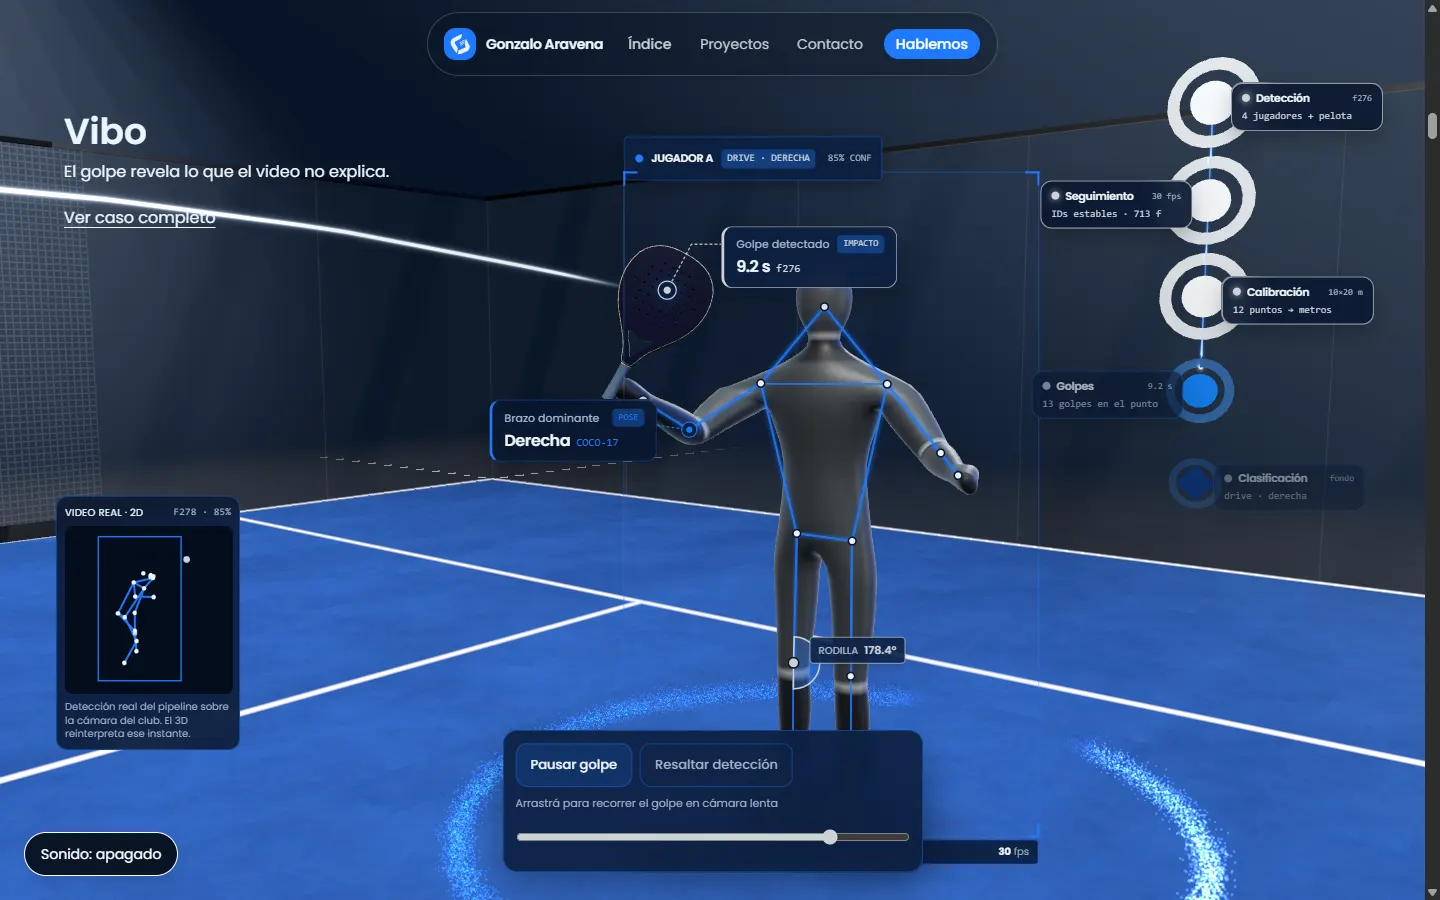
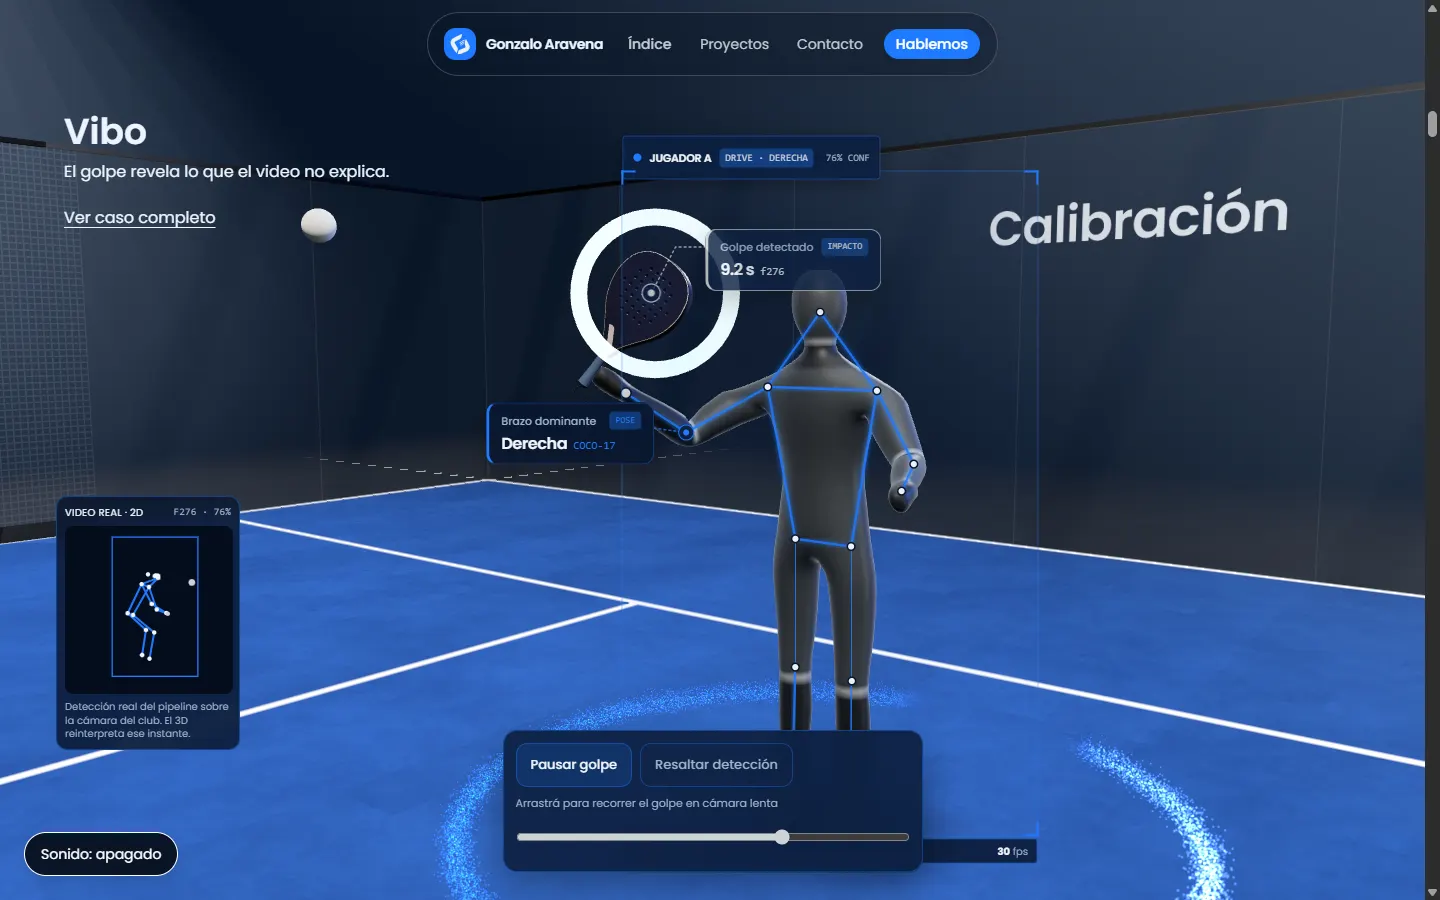
T-A20: pipeline como rótulo de etapa en el cristal del fondo y sin tarjeta de rodilla
ViboPipeline reemplaza AgentGraph en la escena: solo el título de la etapa en curso, plano en mundo sobre la pared del fondo, una etapa por vez. Se quita el angleGauge de rodilla del HUD. Evidencias de razonamiento recapturadas.

diff --git a/src/scenes/vibo/Scene.tsx b/src/scenes/vibo/Scene.tsx
@@ -36,15 +36,12 @@ import { experienceStore } from "@/experience/store"
 import type { SceneProps } from "@/experience/types"
 import { emitInteract } from "@/guide/signals"
 import {
-  AgentGraph,
   HudOverlay,
   TelemetryDeck,
   ThreadLine,
   beatEnvelope,
   interpolateCameraState,
   useStudioEnvironment,
-  type AgentEdgeDef,
-  type AgentNodeDef,
   type HudBoundingBox3D,
   type HudMarkerItem,
   type HudPoseSkeleton3D,
@@ -54,6 +51,7 @@ import { Court } from "./Court"
 import { PLATINUM_THEME, VIBO_COLORS, VIBO_THEME } from "./theme"
 import { COVERAGE, HEAT, HEAT_GRID, INTENSITY, INTENSITY_PEAK, PLAYER, SHOT } from "./data"
 import { createPanelNodes, paintInset } from "./panel"
+import { ViboPipeline, type PipelineStep } from "./Pipeline"
 import { ViboPlayer } from "./Player"
 import { createContactProbe, createPlayerJoints, createRim, type JointId } from "./rig"
 import { BodyLayer, ViboPanel } from "./ViboPanel"
@@ -107,19 +105,19 @@ function heatCentroid(grid: readonly number[]): Vec3Tuple {
   return courtToWorld(sx / sum, sz / sum, 0.1)
 }
 
-const PIPELINE: AgentNodeDef[] = [
-  { id: "deteccion", label: "Detección", decision: "4 jugadores + pelota", metric: `f${SHOT.keyFrame}` },
-  { id: "seguimiento", label: "Seguimiento", decision: "IDs estables · 713 f", metric: "30 fps" },
-  { id: "calibracion", label: "Calibración", decision: "12 puntos → metros", metric: "10×20 m" },
-  { id: "golpes", label: "Golpes", decision: `${PLAYER.totalShots} golpes en el punto`, metric: `${SHOT.tSec} s` },
-  { id: "clasificacion", label: "Clasificación", decision: "drive · derecha", metric: "fondo" },
-].map((node, i) => ({
-  ...node,
-  // Columna vertical sobre el cristal del fondo: se lee igual en toda la órbita de cámara.
-  desktop: [-2.3, 3.0 - i * 0.6, COURT.length / 2 - 0.25] as Vec3Tuple,
-  mobile: [-0.2, 3.0 - i * 0.43, COURT.length / 2 - 0.25] as Vec3Tuple,
-  triggerAt: 0.28 + i * 0.05,
-}))
+const PIPELINE = [
+  { id: "deteccion", label: "Detección" },
+  { id: "seguimiento", label: "Seguimiento" },
+  { id: "calibracion", label: "Calibración" },
+  { id: "golpes", label: "Golpes" },
+  { id: "clasificacion", label: "Clasificación" },
+]
+
+/** Rótulo de etapa sobre el cristal del fondo, detrás y a un lado del jugador. */
+const PIPELINE_LABEL = {
+  desktop: { position: [-1.75, 2.3, COURT.length / 2 - 0.03] as Vec3Tuple, width: 3.4 },
+  mobile: { position: [-0.9, 2.25, COURT.length / 2 - 0.03] as Vec3Tuple, width: 4.4 },
+}
 
 type Range4 = [number, number, number, number]
 
@@ -131,20 +129,12 @@ function hudRange(isMobile: boolean): Range4 {
   return isMobile ? MOBILE_HUD : [...TIMELINE.hud]
 }
 
-/** El layout "mobile" del kit es el de columna (etiquetas alternadas a los lados). */
-function columnNodes(isMobile: boolean): AgentNodeDef[] {
+function pipelineSteps(isMobile: boolean): PipelineStep[] {
   return PIPELINE.map((node, i) => ({
     ...node,
-    mobile: isMobile ? node.mobile : node.desktop,
-    triggerAt: isMobile ? MOBILE_GRAPH[1] + i * 0.02 : node.triggerAt,
+    triggerAt: isMobile ? MOBILE_GRAPH[1] - 0.01 + i * 0.022 : 0.28 + i * 0.05,
   }))
 }
-
-const PIPELINE_EDGES: AgentEdgeDef[] = PIPELINE.slice(1).map((node, i) => ({
-  from: PIPELINE[i].id,
-  to: node.id,
-  arcHeight: 0.04,
-}))
 
 
 const SHADOW_FRAGMENT = /* glsl */ `
@@ -326,20 +316,9 @@ export default function ViboScene(props: SceneProps) {
         .map((id) => ({
           id,
           position: pos(id),
-          accent: id === "wristR" || id === "kneeR",
+          accent: id === "wristR",
         })),
       bones: SKELETON_BONES,
-      angleGauge: {
-        vertexId: "kneeR",
-        armAId: "hipR",
-        armBId: "ankleR",
-        label: "RODILLA",
-        degrees: () => {
-          const a = joints.hipR.clone().sub(joints.kneeR)
-          const b = joints.ankleR.clone().sub(joints.kneeR)
-          return MathUtils.radToDeg(a.angleTo(b))
-        },
-      },
       range: hudRange(isMobile),
     }),
     // eslint-disable-next-line react-hooks/exhaustive-deps
@@ -488,7 +467,7 @@ export default function ViboScene(props: SceneProps) {
     (p: number) => envelope(p, CONTACT_P - 0.01, 0.6, 0.03),
     []
   )
-  const pipeline = useMemo(() => columnNodes(isMobile), [isMobile])
+  const pipeline = useMemo(() => pipelineSteps(isMobile), [isMobile])
   const outgoingTrail = useCallback(() => trailPoints(runtime), [runtime])
   const trailDraw = useCallback(() => {
     const s = swing.current
@@ -565,12 +544,10 @@ export default function ViboScene(props: SceneProps) {
         defaultSelectedId="impacto"
       />
 
-      <AgentGraph
-        nodes={pipeline}
-        edges={PIPELINE_EDGES}
+      <ViboPipeline
+        steps={pipeline}
         progress={progress}
-        quality={quality}
-        isMobile
+        {...(isMobile ? PIPELINE_LABEL.mobile : PIPELINE_LABEL.desktop)}
         active={active}
         theme={THEME}
         range={isMobile ? MOBILE_GRAPH : [...TIMELINE.graph]}

diff --git a/src/scenes/vibo/Pipeline.tsx b/src/scenes/vibo/Pipeline.tsx
@@ -1,0 +1,157 @@
+import { useEffect, useMemo } from "react"
+import { useFrame } from "@react-three/fiber"
+import {
+  CanvasTexture,
+  Mesh,
+  MeshBasicMaterial,
+  PlaneGeometry,
+  SRGBColorSpace,
+} from "three"
+import { beatEnvelope, phase, type KitTheme, type Vec3Tuple } from "@/scenes/kit"
+import { setNodeAt } from "./panel"
+
+export type PipelineStep = {
+  id: string
+  label: string
+  triggerAt: number
+}
+
+type Range4 = [number, number, number, number]
+
+type Props = {
+  steps: readonly PipelineStep[]
+  progress: { readonly current: number }
+  /** Centro del rótulo sobre la pared, en mundo. */
+  position: Vec3Tuple
+  /** Ancho del rótulo en metros. */
+  width: number
+  active: boolean
+  theme: KitTheme
+  range: Range4
+}
+
+const CANVAS_W = 2048
+const CANVAS_H = 320
+const FONT = '600 210px "Poppins", sans-serif'
+
+/** Peso del paso como etapa actual; la saliente se va antes de que entre la siguiente. */
+function stepWeight(p: number, steps: readonly PipelineStep[], i: number, gap: number) {
+  const t = steps[i].triggerAt
+  const enter = phase(p, t - gap * 0.15, t + gap * 0.15)
+  const next = steps[i + 1]
+  const exit = next ? phase(p, next.triggerAt - gap * 0.4, next.triggerAt - gap * 0.15) : 0
+  return enter * (1 - exit)
+}
+
+function paintLabel(texture: CanvasTexture, label: string, color: string) {
+  const canvas = texture.image as HTMLCanvasElement
+  const ctx = canvas.getContext("2d")
+  if (!ctx) return
+  ctx.clearRect(0, 0, CANVAS_W, CANVAS_H)
+  ctx.font = FONT
+  ctx.fillStyle = color
+  ctx.textAlign = "center"
+  ctx.textBaseline = "middle"
+  ctx.letterSpacing = "-4px"
+  ctx.fillText(label, CANVAS_W / 2, CANVAS_H / 2, CANVAS_W - 40)
+  texture.needsUpdate = true
+}
+
+function syncLabels(
+  meshes: (Mesh | null)[],
+  mats: MeshBasicMaterial[],
+  props: Props,
+  baseY: number
+) {
+  const { steps, progress, active, range } = props
+  const p = progress.current
+  const envelope = active ? beatEnvelope(p, ...range) : 0
+  const gap = steps.length > 1 ? steps[1].triggerAt - steps[0].triggerAt : 0.05
+  steps.forEach((_, i) => {
+    const mesh = meshes[i]
+    const mat = mats[i]
+    if (!mesh || !mat) return
+    const weight = envelope * stepWeight(p, steps, i, gap)
+    mesh.visible = weight > 0.005
+    mat.opacity = weight * 0.9
+    mesh.position.y = baseY - (1 - weight) * 0.06
+  })
+}
+
+/** Etapa actual del análisis como rótulo grande sobre el cristal del fondo. */
+export function ViboPipeline(props: Props) {
+  const { steps, position, width, theme } = props
+  const meshes = useMemo<(Mesh | null)[]>(() => [], [])
+  const geometry = useMemo(
+    () => new PlaneGeometry(width, (width * CANVAS_H) / CANVAS_W),
+    [width]
+  )
+  const textures = useMemo(
+    () =>
+      steps.map(() => {
+        const canvas = document.createElement("canvas")
+        canvas.width = CANVAS_W
+        canvas.height = CANVAS_H
+        const texture = new CanvasTexture(canvas)
+        texture.colorSpace = SRGBColorSpace
+        texture.anisotropy = 4
+        return texture
+      }),
+    [steps]
+  )
+  const mats = useMemo(
+    () =>
+      textures.map(
+        (map) =>
+          new MeshBasicMaterial({
+            map,
+            transparent: true,
+            depthWrite: false,
+            toneMapped: false,
+            opacity: 0,
+          })
+      ),
+    [textures]
+  )
+
+  useEffect(() => {
+    let cancelled = false
+    const paint = () => {
+      if (cancelled) return
+      steps.forEach((step, i) => paintLabel(textures[i], step.label, theme.accent))
+    }
+    paint()
+    document.fonts?.load(FONT).then(paint, paint)
+    return () => {
+      cancelled = true
+    }
+  }, [steps, textures, theme.accent])
+
+  useEffect(
+    () => () => {
+      geometry.dispose()
+      textures.forEach((t) => t.dispose())
+      mats.forEach((m) => m.dispose())
+    },
+    [geometry, textures, mats]
+  )
+
+  useFrame(() => syncLabels(meshes, mats, props, position[1]))
+
+  return (
+    <group>
+      {steps.map((step, i) => (
+        <mesh
+          key={step.id}
+          ref={(el) => setNodeAt(meshes, i, el)}
+          position={position}
+          rotation-y={Math.PI}
+          geometry={geometry}
+          material={mats[i]}
+          renderOrder={3}
+          visible={false}
+        />
+      ))}
+    </group>
+  )
+}

diff --git a/docs/plan/evidencias/T-A20/README.md b/docs/plan/evidencias/T-A20/README.md
@@ -9,11 +9,11 @@ Escena de primera línea **Vibo** (`03` §3.1, ADR-011 + enmienda estética) sob
 - **Paleta:** césped y HUD en azul eléctrico (`#1F7AFF`); el acento dorado se reemplazó por platino casi gris (`#CFD2D6`) en el trazo de líneas, el mapa de calor del jugador A, la estela, la pelota, la tarjeta de resultado y los acentos del HUD. El override vive en `src/scenes/vibo/theme.ts` (`VIBO_THEME`/`PLATINUM_THEME` sobre `KIT_THEMES.vibo`, sin tocar el kit).
 - **Beats:**
   - `mundo` — líneas trazadas y reflectores encendiéndose; el hilo dibuja el contorno de la cancha y se cierra en un halo alrededor del jugador.
-  - `razonamiento` — golpe en cámara lenta ligado al scroll, HUD de visión (bbox con etiqueta y confianza, 17 keypoints con esqueleto, ángulo de rodilla, marcador «Golpe detectado» en la cabeza de la paleta, brazo dominante), inserto 2D con los frames reales del MVP (`assets-src/vibo/mvp-ref`, I-02) y pipeline detección → seguimiento → calibración → golpes → clasificación como columna sobre el cristal del fondo.
+  - `razonamiento` — golpe en cámara lenta ligado al scroll, HUD de visión (bbox con etiqueta y confianza, 17 keypoints con esqueleto, marcador «Golpe detectado» en la cabeza de la paleta, brazo dominante), inserto 2D con los frames reales del MVP (`assets-src/vibo/mvp-ref`, I-02) y pipeline detección → seguimiento → calibración → golpes → clasificación: solo el nombre de la etapa en curso, como rótulo grande impreso en el cristal del fondo (plano en mundo, se mueve con la cancha); cada etapa sale antes de que entre la siguiente (`ViboPipeline`, reemplaza a `AgentGraph` del kit en esta escena).
   - `solución` — cenital con mapa de calor, cobertura y perfil ofensivo/defensivo (marcadores con datos curados).
   - `resultado` — tarjeta platino «Tu lectura de partido» (`TelemetryDeck`) junto al jugador y CTA del capítulo.
 - **Interacción:** pausa + scrub obligatorios (slider con `aria-valuetext` en frames/segundos), «Resaltar detección» (`aria-pressed`); todo con botones nativos, por lo que el equivalente táctil es el mismo control. El hover/tap solo resalta.
-- **Mobile:** encuadres propios, una sola pieza de información por vez (HUD + panel durante el golpe → pipeline en tira vertical → cenital → retrato del jugador sobre la tarjeta), una línea de copy por beat.
+- **Mobile:** encuadres propios, una sola pieza de información por vez (HUD + panel durante el golpe → rótulo de etapa en el fondo → cenital → retrato del jugador sobre la tarjeta), una línea de copy por beat.
 - **Transición Vibo→Pirp:** el hilo sale por la trayectoria de la pelota tras el impacto y se aplana hacia la línea de Pirp (`thread.anchors` en `definition.ts`).
 
 ## 2. Cómo verificar
@@ -25,8 +25,8 @@ npm run dev
 | Beat | Deep link |
 | --- | --- |
 | mundo | `/?chapter=vibo&progress=0.12&quality=high` |
-| razonamiento (HUD + scrub) | `/?chapter=vibo&progress=0.30&quality=high` · `/?chapter=vibo&progress=0.42&quality=high` |
-| razonamiento (pipeline, mobile) | `/?chapter=vibo&progress=0.53&quality=high` |
+| razonamiento (HUD + scrub) | `/?chapter=vibo&progress=0.30&quality=high` · `/?chapter=vibo&progress=0.40&quality=high` |
+| razonamiento (pipeline, mobile) | `/?chapter=vibo&progress=0.51&quality=high` |
 | solución | `/?chapter=vibo&progress=0.72&quality=high` |
 | resultado | `/?chapter=vibo&progress=0.90&quality=high` |
 | laboratorio | `/lab/vibo?progress=0.42&quality=medium` |
@@ -89,8 +89,8 @@ Verificado con emulación `reduce`: la escena es estática salvo lo que mueve el
 | Beat | Desktop 1440×900 | Mobile 390×844 |
 | --- | --- | --- |
 | mundo (0.12) | [`vibo-desktop-1-mundo.webp`](./vibo-desktop-1-mundo.webp) | [`vibo-mobile-1-mundo.webp`](./vibo-mobile-1-mundo.webp) |
-| razonamiento (0.42 · mobile 0.30) | [`vibo-desktop-2-razonamiento.webp`](./vibo-desktop-2-razonamiento.webp) | [`vibo-mobile-2a-razonamiento-hud.webp`](./vibo-mobile-2a-razonamiento-hud.webp) |
-| razonamiento — pipeline (mobile 0.53) | (incluido en la captura anterior) | [`vibo-mobile-2b-razonamiento-grafo.webp`](./vibo-mobile-2b-razonamiento-grafo.webp) |
+| razonamiento (0.40 · mobile 0.30) | [`vibo-desktop-2-razonamiento.webp`](./vibo-desktop-2-razonamiento.webp) | [`vibo-mobile-2a-razonamiento-hud.webp`](./vibo-mobile-2a-razonamiento-hud.webp) |
+| razonamiento — pipeline (mobile 0.51) | (incluido en la captura anterior) | [`vibo-mobile-2b-razonamiento-grafo.webp`](./vibo-mobile-2b-razonamiento-grafo.webp) |
 | solución (0.72 · mobile 0.71) | [`vibo-desktop-3-solucion.webp`](./vibo-desktop-3-solucion.webp) | [`vibo-mobile-3-solucion.webp`](./vibo-mobile-3-solucion.webp) |
 | resultado (0.90) | [`vibo-desktop-4-resultado.webp`](./vibo-desktop-4-resultado.webp) | [`vibo-mobile-4-resultado.webp`](./vibo-mobile-4-resultado.webp) |
 
